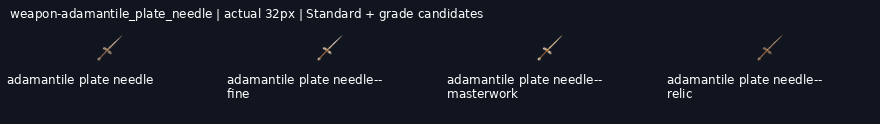
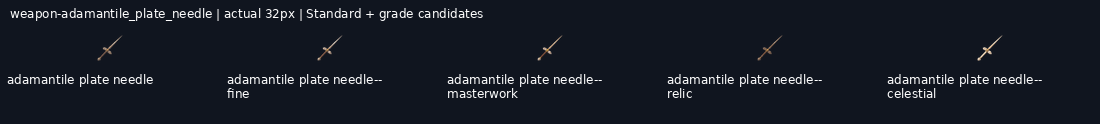
Deliver weapon-adamantile_plate_needle--celestial review candidate

diff --git a/art/_archive/gear/2026-11-20-reset-continuation/HANDOFF.md b/art/_archive/gear/2026-11-20-reset-continuation/HANDOFF.md
@@ -1,13 +1,13 @@
 # Reset continuation progress
 
-Branch: `art/2026-11-20-reset-continuation`. New deliveries: 45/70.
+Branch: `art/2026-11-20-reset-continuation`. New deliveries: 46/70.
 
 Shared coordination: https://github.com/leonpentastorm/Project-Heaven-Cry/issues/3 . Read START-HERE.md before extending this queue.
 
 All new entries remain review-candidate; production_approved:false and implementation_ready:false. Exact-outline review remains pending.
 
-Ready jobs: weapon-adamantile_plate_needle--celestial, weapon-adamantile_longsword--fine.
+Ready jobs: weapon-adamantile_longsword--fine.
 
-Pending jobs: weapon-hellraiser_rotary--celestial, weapon-purifier_flamer--masterwork, weapon-purifier_flamer--relic, weapon-purifier_flamer--celestial, weapon-dock_cutter--masterwork, weapon-dock_cutter--relic, weapon-dock_cutter--celestial, weapon-broadback_sabre--relic, weapon-broadback_sabre--celestial, weapon-short_draw--fine, weapon-short_draw--masterwork, weapon-short_draw--relic, weapon-short_draw--celestial, weapon-long_draw--fine, weapon-long_draw--masterwork, weapon-long_draw--relic, weapon-long_draw--celestial, weapon-kemizuchi_side_sword--masterwork, weapon-kemizuchi_side_sword--relic, weapon-kemizuchi_side_sword--celestial, weapon-adamantile_plate_needle--celestial, weapon-adamantile_longsword--fine, weapon-adamantile_longsword--masterwork, weapon-adamantile_longsword--relic, weapon-adamantile_longsword--celestial.
+Pending jobs: weapon-hellraiser_rotary--celestial, weapon-purifier_flamer--masterwork, weapon-purifier_flamer--relic, weapon-purifier_flamer--celestial, weapon-dock_cutter--masterwork, weapon-dock_cutter--relic, weapon-dock_cutter--celestial, weapon-broadback_sabre--relic, weapon-broadback_sabre--celestial, weapon-short_draw--fine, weapon-short_draw--masterwork, weapon-short_draw--relic, weapon-short_draw--celestial, weapon-long_draw--fine, weapon-long_draw--masterwork, weapon-long_draw--relic, weapon-long_draw--celestial, weapon-kemizuchi_side_sword--masterwork, weapon-kemizuchi_side_sword--relic, weapon-kemizuchi_side_sword--celestial, weapon-adamantile_longsword--fine, weapon-adamantile_longsword--masterwork, weapon-adamantile_longsword--relic, weapon-adamantile_longsword--celestial.
 
 Quota state: null.
